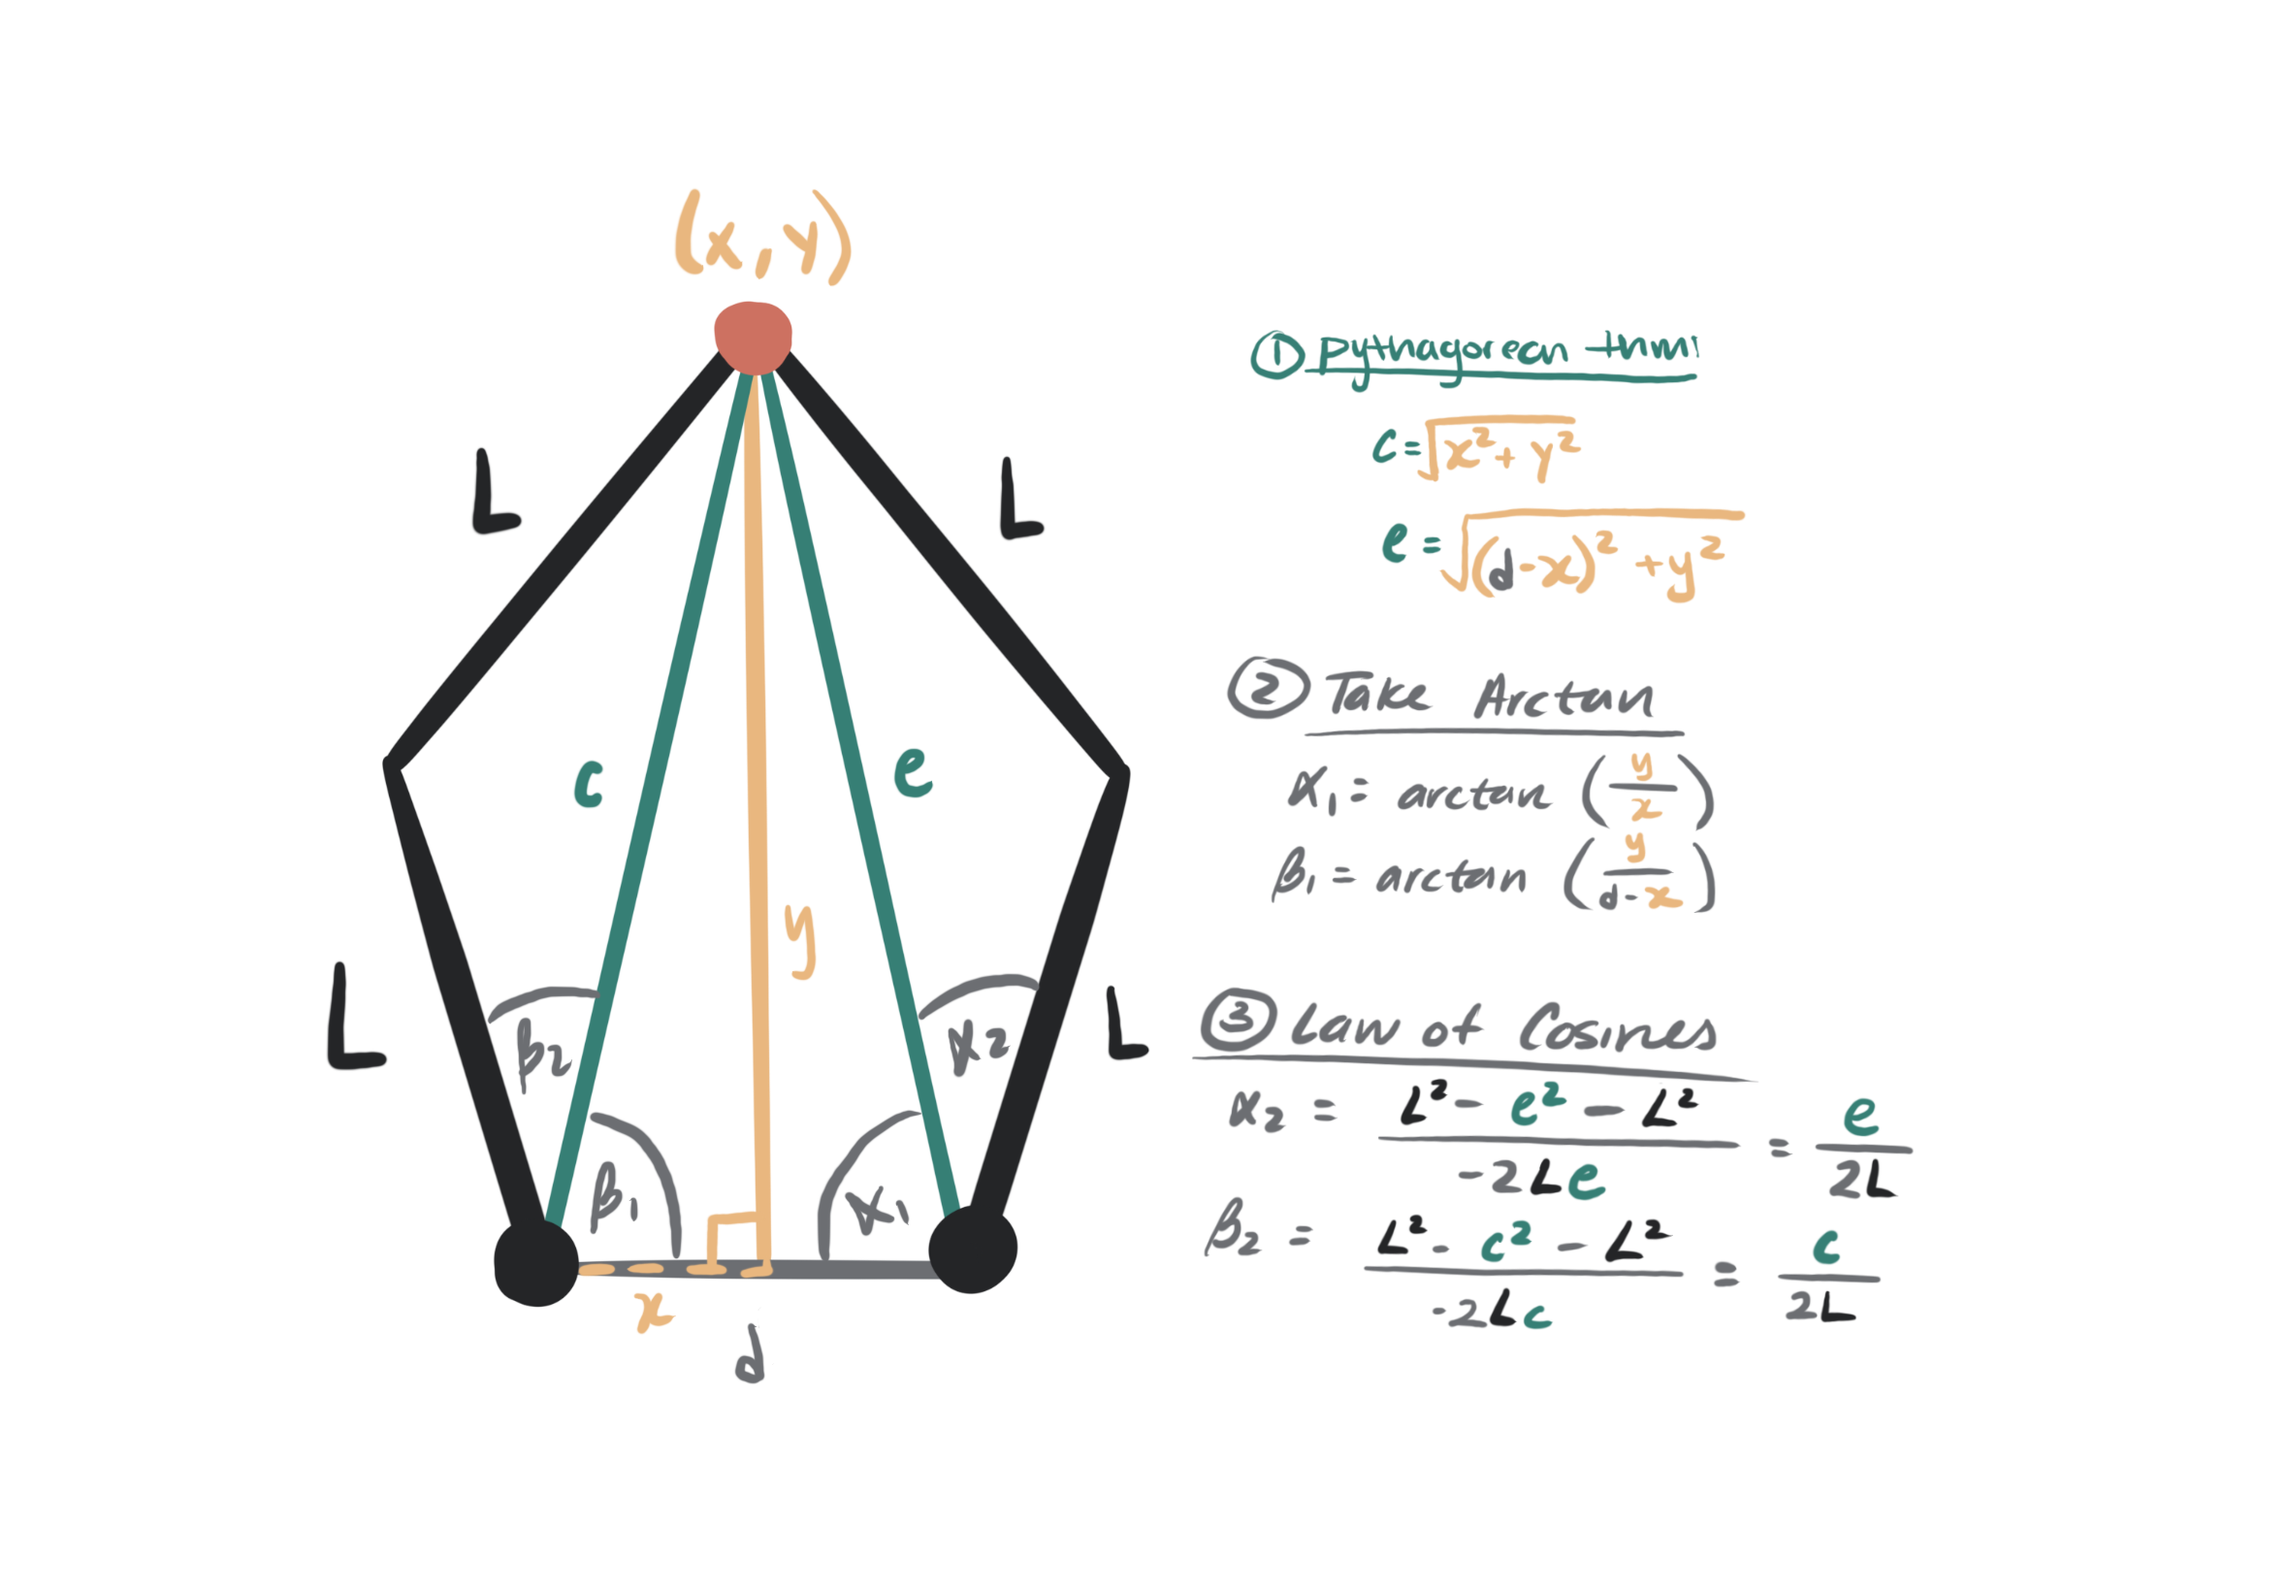
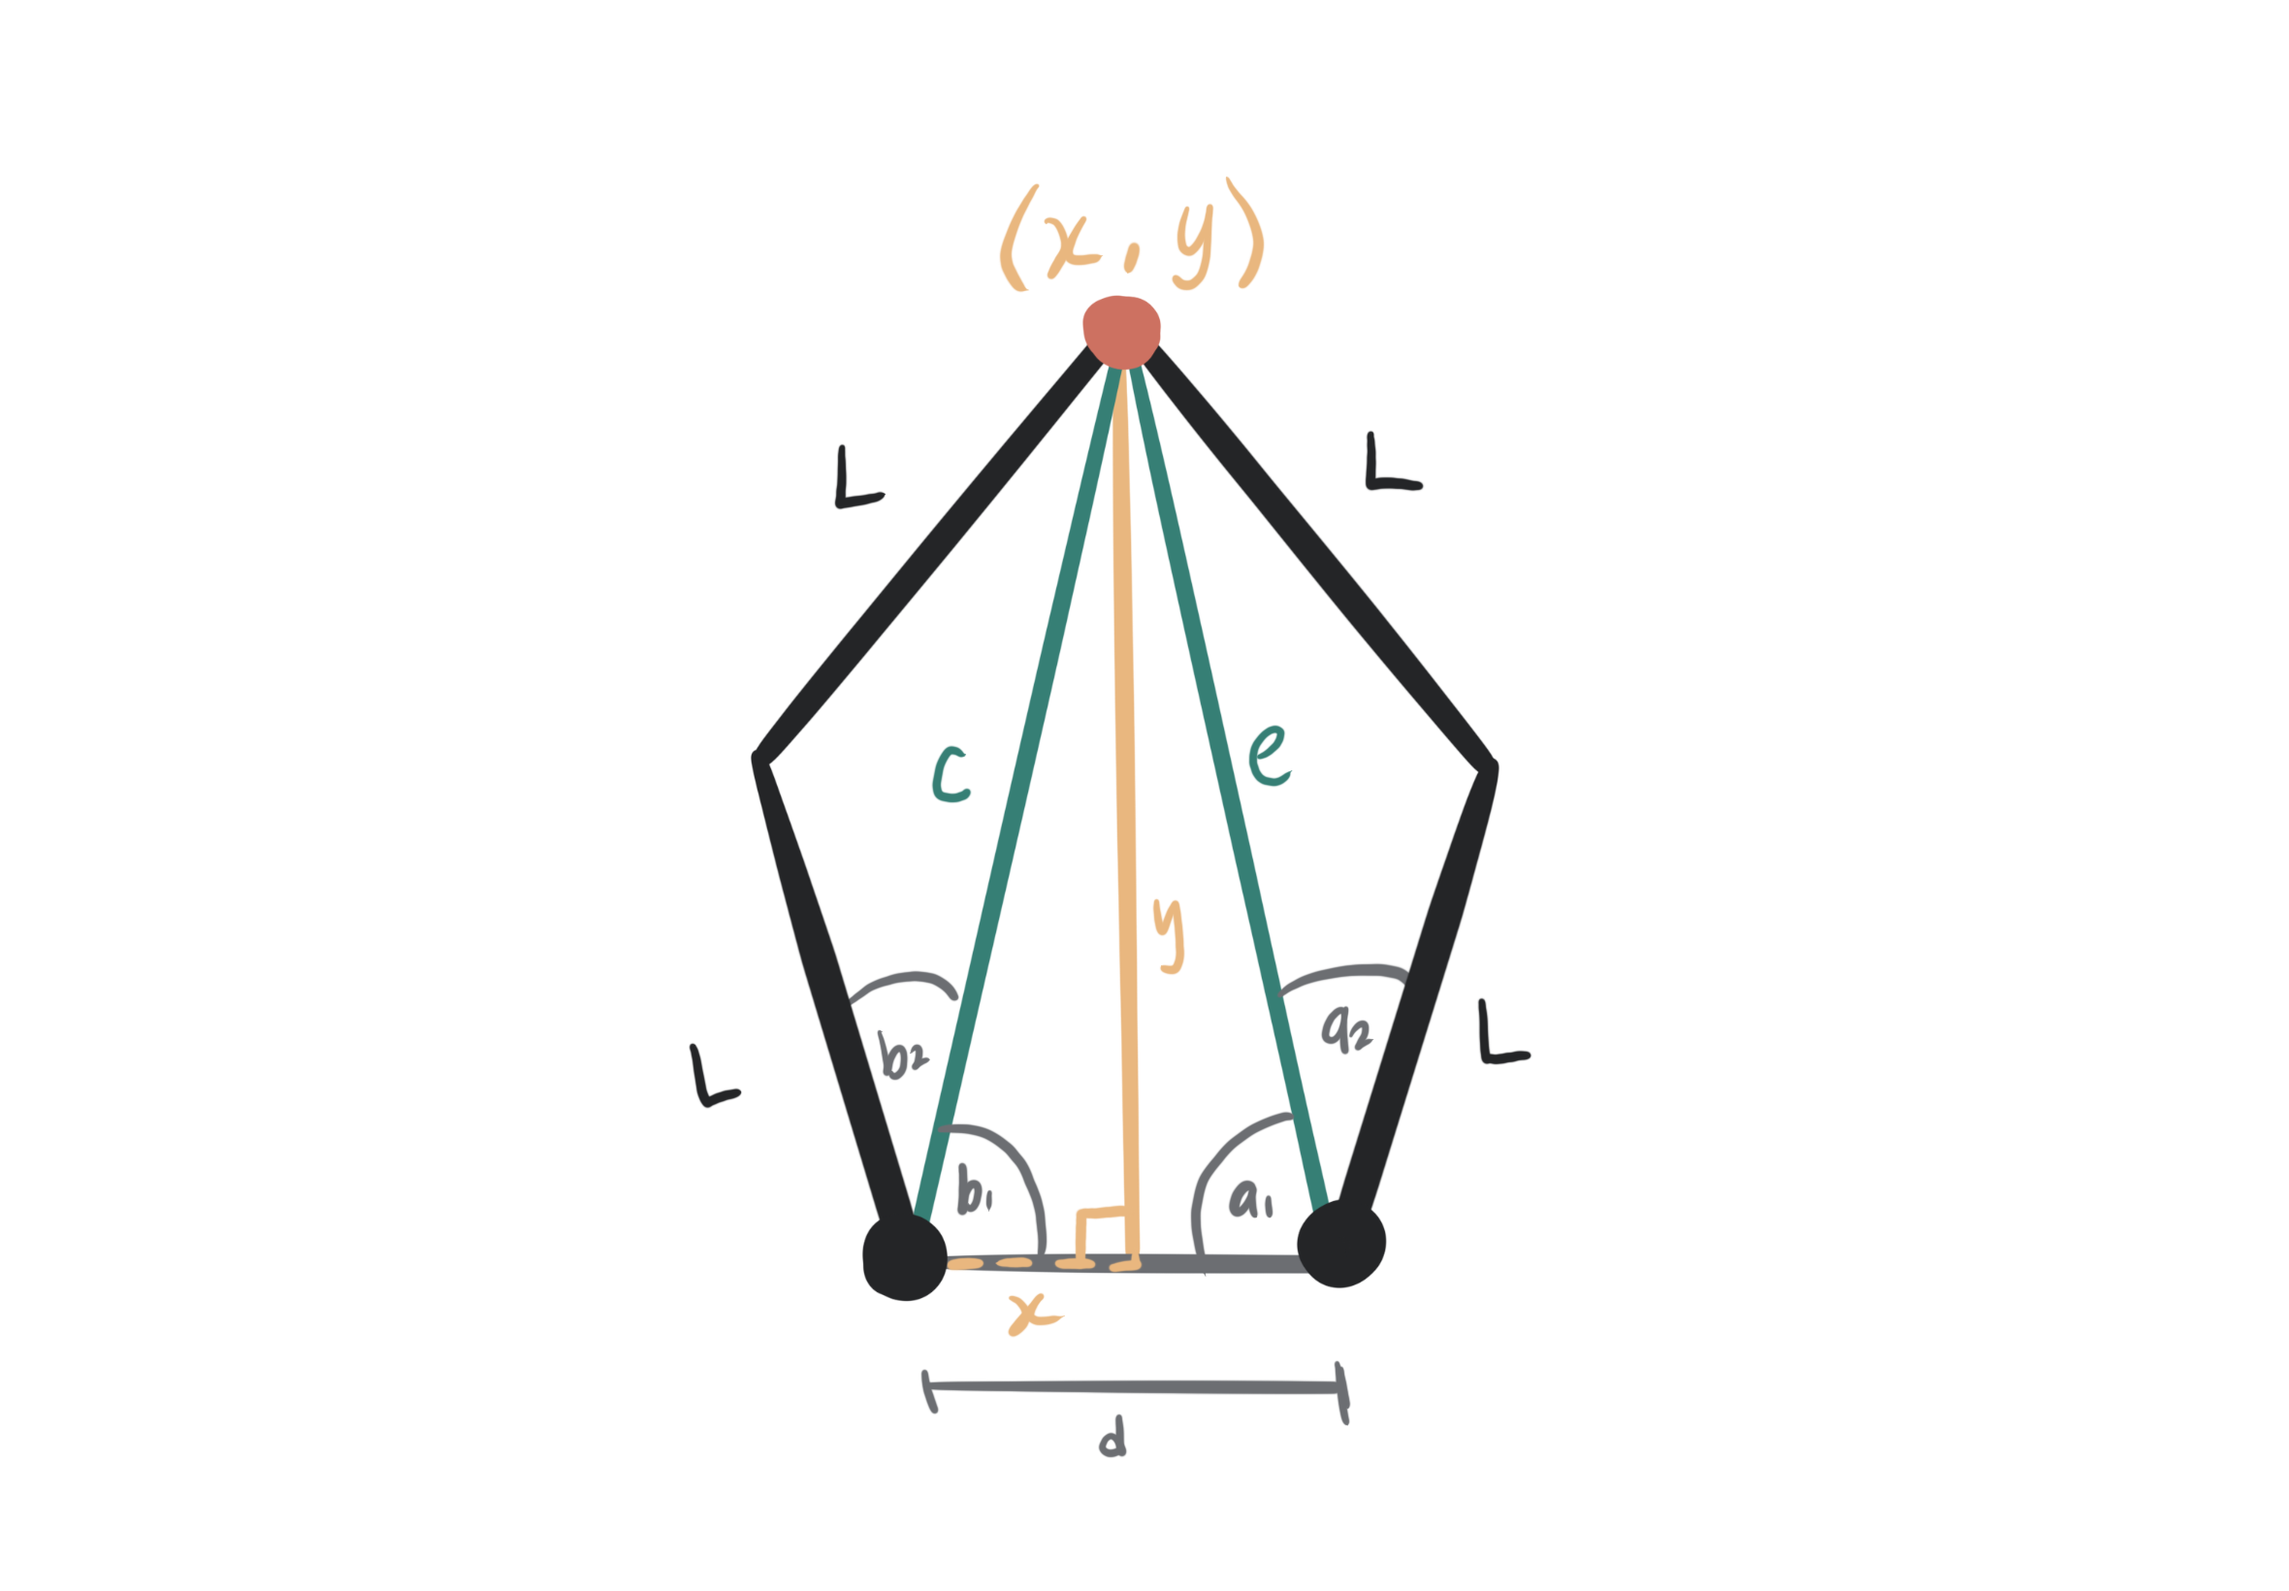
finished!

Changed region(s): [[0.1237, 0.1244, 0.8042, 0.9329], [0.7733, 0.6841, 0.8352, 0.7774], [0.3093, 0.8396, 0.3403, 0.8707]]

diff --git a/2dofarm.html b/2dofarm.html
@@ -57,76 +57,98 @@
 
 							<div>
 								<h2>Kinematics Theory</h2>
-									<p><span class="image left"><img src="images/ME35/2dof/MathDiagram.png" alt="" /></span> </p>	
 									<p>Here's the IK I used to correlate an end effector point to servo angles. It's essentially just a bit of trigonometry.</p>
+
+									<p><span class="image left"><img src="images/ME35/2dof/MathDiagram.png" alt="" /></span> </p>	
+									<p>Using Pythagorean Theorem, Arctan, and Law of Cosines:</p>		
 									
-									<blockquote>
-										<math xmlns="http://www.w3.org/1998/Math/MathML" display="block">
-											<mrow>
-											  <mi>c</mi>
-											  <mo>=</mo>
-											  <msqrt>
-												<msup><mi>x</mi><mn>2</mn></msup>
-												<mo>+</mo>
-												<msup><mi>y</mi><mn>2</mn></msup>
-											  </msqrt>
-											</mrow>
-											
-											<mrow>
-											  <mi>e</mi>
-											  <mo>=</mo>
-											  <msqrt>
-												<msup>
-												  <mrow><mo>(</mo><mi>d</mi><mo>−</mo><mi>x</mi><mo>)</mo></mrow>
-												  <mn>2</mn>
-												</msup>
-												<mo>+</mo>
-												<msup><mi>y</mi><mn>2</mn></msup>
-											  </msqrt>
-											</mrow>
-											<mrow>  
-										  </math> </blockquote>
+									<div class = "row">
+										<div class = "column">
+											<blockquote> <math display = "block">
+												<mrow>
+													<mi>c</mi>
+													<mo>=</mo>
+													<msqrt>
+													  <msup><mi>x</mi><mn>2</mn></msup>
+													  <mo>+</mo>
+													  <msup><mi>y</mi><mn>2</mn></msup>
+													</msqrt>
+												</mrow>
+											</math></blockquote>
+										</div>
+										<div class = "column">
+											<math display = "block">
+												<mrow>
+													<mi>e</mi>
+													<mo>=</mo>
+													<msqrt>
+													  <msup>
+														<mrow><mo>(</mo><mi>d</mi><mo>−</mo><mi>x</mi><mo>)</mo></mrow>
+														<mn>2</mn>
+													  </msup>
+													  <mo>+</mo>
+													  <msup><mi>y</mi><mn>2</mn></msup>
+													</msqrt>
+												  </mrow>
+											</math>
+										</div>
+									</div>
 
-									<blockquote> <math xmlns="http://www.w3.org/1998/Math/MathML" display = "block"> 
-										<mrow>
-											<mi>b₁</mi>
-											<mo>=</mo>
-											<mi>atan2</mi><mo>(</mo><mi>y</mi><mo>,</mo><mi>x</mi><mo>)</mo>
-										  </mrow>
+									<div class = "row">
+										<div class = "column">
+											<blockquote><math>
+												<mrow>
+													<mi>b₁</mi>
+													<mo>=</mo>
+													<mi>atan2</mi><mo>(</mo><mi>y</mi><mo>,</mo><mi>x</mi><mo>)</mo>
+												</mrow>
+											</math></blockquote>
+										</div>
+										<div class = "column">	
+											<math>
+												<mrow>
+													<mi> a₁</mi>
+													<mo>=</mo>
+													<mi>atan2</mi><mo>(</mo><mi>y</mi><mo>,</mo><mi>d</mi><mo>−</mo><mi>x</mi><mo>)</mo>
+												</mrow>
+											</math>											  
+										</div>
+									</div>
 
-										  <mrow>
-											<mi> a₁</mi>
-											<mo>=</mo>
-											<mi>atan2</mi><mo>(</mo><mi>y</mi><mo>,</mo><mi>d</mi><mo>−</mo><mi>x</mi><mo>)</mo>
-										  </mrow>
-									</math></blockquote>
+									<div class = "row">
+										<div class = "column">
+											<blockquote><math>
+												<mrow>
+													<mi>a₂</mi>
+													<mo>=</mo>
+													<mi>acos</mi>
+													<mo>(</mo>
+													<mfrac>
+													  <mi>e</mi>
+													  <mrow><mn>2</mn><mi>L</mi></mrow>
+													</mfrac>
+													<mo>)</mo>
+												</mrow>
+											</math></blockquote>
+										</div>
+										<div class = "column">
+											<math>
+												<mrow>
+													<mi>b₂</mi>
+													<mo>=</mo>
+													<mi>acos</mi>
+													<mo>(</mo>
+													<mfrac>
+													  <mi> c</mi>
+													  <mrow><mn>2</mn><mi>L</mi></mrow>
+													</mfrac>
+													<mo>)</mo>
+												</mrow>
+											</math>
+										</div>
+									</div>
 
-									<blockquote> <math xmlns="http://www.w3.org/1998/Math/MathML" display = "block">
-
-										<mrow>
-											<mi>a₂</mi>
-											<mo>=</mo>
-											<mi>acos</mi>
-											<mo>(</mo>
-											<mfrac>
-											  <mi>e</mi>
-											  <mrow><mn>2</mn><mi>L</mi></mrow>
-											</mfrac>
-											<mo>)</mo>
-										  </mrow>
-
-										  <mrow>
-											<mi>b₂</mi>
-											<mo>=</mo>
-											<mi>acos</mi>
-											<mo>(</mo>
-											<mfrac>
-											  <mi> c</mi>
-											  <mrow><mn>2</mn><mi>L</mi></mrow>
-											</mfrac>
-											<mo>)</mo>
-										  </mrow>
-									</math></blockquote>
+									<br>
 
 								<h2> MATLAB Simulation </h2>
 									<p><span class="image right"><video name="badROM" style = "width: 450px; height: 350px; object-fit: cover; object-position: 0% 50%"autoplay muted loop><source src="images/ME35/2dof/MATLAB Demo.mov"></video></span><br>Before going straight to incorporating the kinematics with the mechanical system, I wanted to simulate everything in MATLAB to make sure that my logic was sound. So I made a MATLAB script that models the linkage system, and you can input an array of points and it will draw it out! Let it be known that this was programmed by hand, and the only time AI was used was to generate the array of points for the star shape. <p>
@@ -316,7 +338,7 @@ end
 										</div>
 										<div id = 'micropython' style = "display:none"> 
 											<pre style><code>
-i havent gotten my micropython script off my esp32 yet yet, but its more or less similar to the matlab :-)
+i havent gotten my micropython script off my esp32 yet, but its more or less similar to the matlab :-)
 											</code></pre>
 										</div>
 

diff --git a/index.html b/index.html
@@ -63,7 +63,7 @@
 
 								<article class="style1 filterDiv cad">
 									<span class="image">
-										<img src="images/ME35/2dof/IKRobot.png" style= "object-fit: cover;" alt="" />
+										<img src="images/ME35/2dof/coverPhoto.png" style= "object-fit: fill;" alt="" />
 									</span>
 									<a href="2dofarm.html">
 										<h2>IK Drawing Robot</h2>
@@ -103,18 +103,6 @@
 										<h2>Scuttletron 9000</h2>
 										<div class="content">
 											<p>Personal Project for the MassRobotics Form & Function Challenge</p>
-										</div>
-									</a>
-								</article>
-
-								<article class="style5 filterDiv cad">
-									<span class="image">
-										<img src="images/makeHarvard/meWorking2.png" alt="" />
-									</span>
-									<a href="makeHarvard.html">
-										<h2>Mirrored Drawing Robot</h2>
-										<div class="content">
-											<p>24-hour Hackathon project</p>
 										</div>
 									</a>
 								</article>
